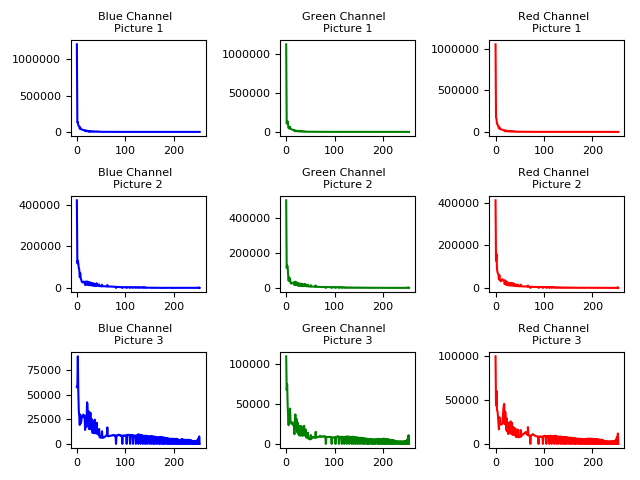
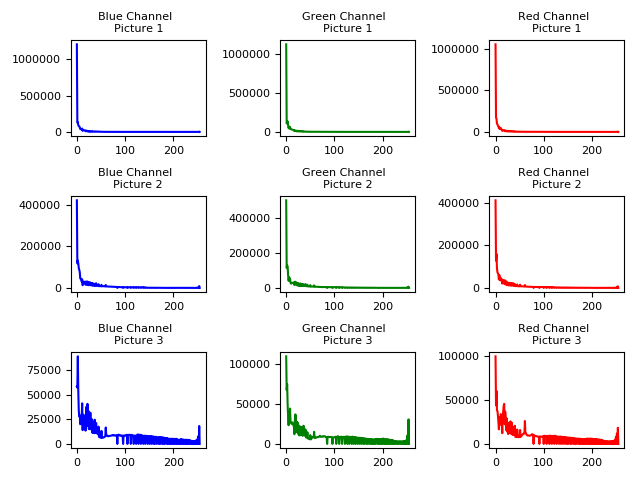
Initial preprocess function for composition algorithms

diff --git a/hdr/composition.py b/hdr/composition.py
@@ -1,0 +1,31 @@
+from hdr import gamma as gc
+from utility import imageutil as im
+
+
+def algo1(g, image1, image2, a1, image3, a2):
+
+    img1 = image1.ravel()
+    img2 = image2.ravel()
+    img3 = image3.ravel()
+
+    print(img1.shape[0] == img2.shape[0] == img3.shape[0])
+
+    return
+
+
+def __preprocess__(image, g):
+    orig_channels = im.split_channels(image)
+    corrected_channels = gc.invert_gamma_of_image(image, g, im.split_channels)
+
+    orig_channels_raveled = __ravel__(orig_channels)
+    corrected_channels_raveled = __ravel__(corrected_channels)
+
+    return orig_channels_raveled, corrected_channels_raveled
+
+
+def __ravel__(channels):
+
+    for i in range(0, 3):
+        channels[i] = channels[i].ravel()
+
+    return channels

diff --git a/HDR.py b/HDR.py
@@ -1,5 +1,6 @@
 from hdr import gamma as gc
 from hdr import exposure as xp
+from hdr import composition as cp
 
 from utility import constants as ct
 
@@ -9,4 +10,8 @@ g = gc.learn_gamma_parameters_and_plot(display=DISPLAY)
 
 print(g)
 
-xp.generate_hdr_stack_histogram(file_name="Histograms.png", gamma_params=g, display=DISPLAY)
+images = xp.generate_hdr_stack_histogram(file_name="Histograms.png", gamma_params=g, display=DISPLAY)
+
+cp.algo1(g, images[0], images[1], 1, images[2], 2)
+
+

diff --git a/utility/imageutil.py b/utility/imageutil.py
@@ -102,6 +102,5 @@ def get_average_brightness_of_images(images, callback=None):
 
 
 def histogram(image, channel, g, bin_count=ct.BIN_COUNT):
-    end = np.power(255, g[channel])
-    # image = np.float32(np.power(image, g))
+    end = np.power(256, g[channel])
     return cv.calcHist([image], [channel], None, [bin_count], [0, end])

diff --git a/hdr/exposure.py b/hdr/exposure.py
@@ -25,6 +25,8 @@ def generate_hdr_stack_histogram(file_name, gamma_params, display=ct.DONT_DISPLA
 
     __generate_histogram__(file_name, images, gamma_params, display)
 
+    return images
+
 
 def __generate_histogram__(file_name, images, gamma_params, display=ct.DONT_DISPLAY_PLOT):
     graph_num = 0

diff --git a/utility/constants.py b/utility/constants.py
@@ -39,4 +39,4 @@ BIGGER_SIZE = 12
 
 # ----------------------------------------------
 # HISTOGRAM CONSTANTS
-BIN_COUNT = 255
+BIN_COUNT = 256
